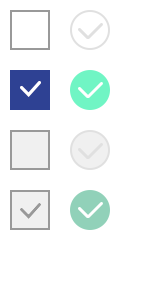
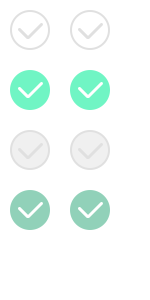
로긴1

diff --git a/src/main/webapp/resources2/app/css/common.css b/src/main/webapp/resources2/app/css/common.css
@@ -21,7 +21,7 @@ button{cursor:pointer;background: none;border: none;}
 .btn.type.b:not(.disabled):active{/* border-color:#0052bb; *//* background-color:#e5f2fd; */}
 .btn.type.c{border-color:#666666; background-color:#ffffff; color:#181818;}
 .btn.type.c:not(.disabled):active{/* border-color:#666666; background-color:#f5f5f5; */}
-.btn.type.d{border-color:#ee4e2e; background-color:#ee4e2e; color:#ffffff;}
+.btn.type.d{border-color: #66dfb2;background-color: #66dfb2;color:#ffffff;}
 .btn.type.d:not(.disabled):active{/* border-color:#9b331e; background-color:#9b331e; */}
 .btn.type.e{border-color:#646464; background-color:#646464; color:#ffffff;}
 .btn.type.e:not(.disabled):active{/* border-color:#646464; background-color:#646464; */}
@@ -41,7 +41,7 @@ textarea{ padding:9px 8px 9px 8px; height: 100px; border:#b3b3b3 solid 1px ;}
 textarea:focus{color: #70f5c4; border:#70f5c4 solid 1px ;}
 
 textarea:not([readonly]):not([disabled]):focus,
-input:not([type=radio]):not([type=radio]):not([readonly]):not([disabled]):focus{ border-bottom-color: #70f5c4; border-bottom-width: 2px; padding-bottom: 4px; color: #70f5c4;}
+input:not([type=radio]):not([type=radio]):not([readonly]):not([disabled]):focus{border-bottom-color: #70f5c4;border-bottom-width: 2px;padding-bottom: 4px;/* color: #70f5c4; */}
 
 select[disabled],
 textarea[disabled],textarea[readonly],
@@ -69,7 +69,7 @@ input.valid.no{background-position-y: -70px;/* border-bottom-color: #daa096 !imp
 
 .checkbox{position:relative;display:inline-block;vertical-align:middle;}
 .checkbox>input{position:absolute;left:0px;top:0px;padding:0px;z-index: 10;}
-.checkbox>span::before{width:30px;height: 30px;background: url(../images/common/form.png) no-repeat;display:inline-block;vertical-align:middle;background-size: 75px auto;margin-left: -4px;content:"";}
+.checkbox>span::before{width:30px;height: 30px;background: url(../images/common/form.png) no-repeat;display:inline-block;vertical-align: -10px;background-size: 75px auto;margin-left: -4px;content:"";}
 .checkbox>input:checked + span::before{background-position-y: -30px;}
 .checkbox>input:disabled + span::before{background-position-y: -60px;}
 .checkbox>input:checked:disabled + span::before{background-position-y: -90px;}
@@ -98,6 +98,16 @@ select::-ms-expand {display:none;}
 .uiSchIpt{ position:relative; display:inline-block; vertical-align:middle; width:100%; }
 .uiSchIpt input.ipt{width:100%;padding-right: 45px;}
 .uiSchIpt .sch{ width:40px; height:38px; font-size:0px; position:absolute; right:1px; top:1px; background:url(../images/common/icoFormSch.png) no-repeat; background-size:auto 38px; cursor:pointer; background-color:transparent; border:none; padding:0;}
+
+
+/* placeholder */
+.uiIptPlc{position:relative;padding-top: 20px;}
+.uiIptPlc .plc{position:absolute;top: 29px;font-size: 14px;transition: all 0.2s;color: #999;}
+.uiIptPlc .input{}
+.uiIptPlc .input:focus{}
+.uiIptPlc .input:focus + .plc{color: #70f5c4;top: 8px;font-size: 12px;}
+.uiIptPlc .input.on + .plc{ color: #70f5c4; top: 8px; font-size: 12px; }
+
 
 /* 수량 +- */
 .uiSpinner{}
@@ -138,7 +148,7 @@ select::-ms-expand {display:none;}
 .uiChk input[type=checkbox] {width:52px;height:26px;padding:0px; position:absolute; z-index:10;}
 .uiChk input + em::after{content:"OFF";position:absolute;left:27px;top:7px;font-size:11px;color:#ffffff;font-family:'Tahoma';}
 .uiChk input + em::before{position:absolute;left:2px;top:2px;width:22px;height:22px;background:#ffffff;border-radius:30px;transition:all 0.2s;content:"";}
-.uiChk input:checked + em{background:#0052bb;}
+.uiChk input:checked + em{background: #70f5c4;}
 .uiChk input:checked + em::after{content:"ON";left:6px;}
 .uiChk input:checked + em::before{left:28px;}
 .uiChk input:disabled + em{ opacity:0.5;}
@@ -174,7 +184,7 @@ select::-ms-expand {display:none;}
 /* 블릿 리스트 타입*/
 ul.bullet{ }
 ul.bullet>li .st{color:#e84e4e;}
-ul.bullet.type>li{  line-height:16px;  position:relative; margin-top:4px;}
+ul.bullet.type>li{/* line-height:16px; */position:relative;margin-top:4px;font-size: 12px;}
 ul.bullet.type>li:first-child{ margin-top:0px; }
 ul.bullet.type>li:before{ position:absolute; left:0px; top:0px;}
 
@@ -315,7 +325,7 @@ table.listA tbody tr:first-child td{ border-top-width:0; }
 .paging .link a{/* border-color:transparent; *//* line-height: 29px; */margin: 0 1px;}
 .paging .link a.active{font-weight:bold;color:#0052bb;/* text-decoration:underline; */}
 
-.msg_error{color:#ee4e2e;padding: 5px 10px; display:none;}
+.msg_error{padding: 5px 0px; display:none; font-size: 12px;}
 .msg_error.show{ display:block; }
 
 .uiListMore{ position: relative;}
@@ -330,7 +340,7 @@ table.listA tbody tr:first-child td{ border-top-width:0; }
 /* 플로팅 탑버튼 */
 .floatNav{position:fixed;right: 10px;bottom: 60px;z-index: 200;transition:all 0.4s;}
 .floatNav.active{}
-.floatNav .bt{font-size: 0px;width:32px;height:32px; display:block; background: no-repeat rgba(255, 255, 255, 0.7); border: solid #999999 1px;transform: translateY(100px);transition: all 0.4s; background-size: 100% auto; margin-top: 10px;}
+.floatNav .bt{font-size: 0px;width:32px;height:32px;display:block;background: no-repeat rgba(255, 255, 255, 0.7);border: solid #999999 1px;transform: translateY(200px);transition: all 0.4s;background-size: 100% auto;margin-top: 10px;}
 .floatNav .bt.refresh{background-image: url(../images/common/ico_load.png); transition-delay: 0.0s;}
 .floatNav .bt.top{background-image: url(../images/common/btn_top.png); transition-delay: 0.1s;}
 .floatNav.active .refresh{ transform: translateY(0px);}
@@ -470,10 +480,11 @@ table.listA tbody tr:first-child td{ border-top-width:0; }
 /* 팝업 레이어 */
 .popPage{ position:relative;left:0px;right:0px;top:0px;bottom:0;z-index:1000;background-color: rgba(0,0,0,0.52);outline:none;}
 .popPage>.pbd{background: #ffffff;position:relative;overflow: hidden;/* padding-top:50px; */min-width: 200px;}
+.popPage>.pbd .btnPopClose{position: fixed;right: 15px;top: 35px;width: 30px;height: 30px;text-indent:-9999px;overflow:hidden;background: url(../images/common/popLayerClose.png) no-repeat center;background-size: 20px auto;background-color:transparent;border:none;padding:0;cursor: pointer;z-index: 100;}
 .popPage>.pbd>.phd{height: 50px;position: relative;}
 .popPage>.pbd>.phd>.in{position:fixed;left:0px;right:0px;top:0px;z-index:10;height: 50px;background-color: #ffffff;box-sizing:border-box;border-bottom: #c7c7c7 solid 1px;display: flex;align-items: center;}
 .popPage>.pbd>.phd .tit{font-size: 20px;color:#000000;font-family:"CJ Medium";white-space:nowrap;overflow:hidden;text-overflow:ellipsis;padding-left: 15px;}
-.popPage>.pbd .btnPopClose{position: fixed;right: 15px;top: 35px;width: 30px;height: 30px;text-indent:-9999px;overflow:hidden;background: url(../images/common/popLayerClose.png) no-repeat center;background-size: 20px auto;background-color:transparent;border:none;padding:0;cursor: pointer;z-index: 100;}
+.popPage>.pbd>.phd .btnPopClose{ top: 10px;}
 .popPage>.pbd>.pct{position: relative;}
 .popPage>.pbd>.pbt{position:relative;min-height: 40px;z-index: 100;}
 .popPage>.pbd>.pbt>.in{position: fixed; bottom: 0px; width:100%; }

diff --git a/src/main/webapp/resources2/app/css/member.css b/src/main/webapp/resources2/app/css/member.css
@@ -3,7 +3,7 @@
 .popJoinPre{}
 .popJoinPre .poptents{}
 .popJoinPre .box{padding: 69px 16px 170px 16px;min-height: calc(100vh - 169px);text-align: center;}
-.popJoinPre .box .hdt{font-size: 24px;}
+.popJoinPre .box .hdt{font-size: 24px;color: #000000;}
 .popJoinPre .box .hdt em{ font-weight: bold;}
 .popJoinPre .box .bts{margin-top: 30px;}
 .popJoinPre .box .bts .btn{ width:100%; margin-top: 16px}
@@ -15,3 +15,24 @@
 .popJoinPre .joinSet .list>li.instar .bt{background-image:url(../images/common/ico_instargram.png);}
 .popJoinPre .joinSet .list>li.kakao .bt{background-image:url(../images/common/ico_kakaotalk.png);}
 .popJoinPre .joinSet .list>li.facebook .bt{background-image:url(../images/common/ico_facebook.png);}
+
+
+.popLogin{}
+.popLogin .poptents{}
+.popLogin .loginForm{padding: 69px 16px 20px 16px;}
+.popLogin .loginForm .hdt{font-size: 24px;text-align: center;color: #000000;}
+.popLogin .loginForm .hdt em{ font-weight: bold;}
+.popLogin .loginForm .form{
+    margin-top: -5px;
+}
+.popLogin .loginForm .form .uiIptPlc{}
+.popLogin .loginForm .form .uiIptPlc .plc{}
+.popLogin .loginForm .form .uiIptPlc .input{}
+.popLogin .loginForm .form .msg_error{margin-top: 4px;}
+.popLogin .loginForm .form .btns{margin-top: 12px;}
+.popLogin .loginForm .form .btns .btn{width:100%;}
+.popLogin .loginForm .info{display:flex; justify-content: space-between; font-size: 12px; align-items: center; margin-top: 10px;}
+.popLogin .loginForm .info .save{}
+.popLogin .loginForm .info .save label{}
+.popLogin .loginForm .info .txt{}
+.popLogin .loginForm .info .txt .link{display: block;padding: 4px 0;}

diff --git a/src/main/webapp/resources2/app/css/base.css b/src/main/webapp/resources2/app/css/base.css
@@ -149,7 +149,7 @@ input[type=number]{-moz-appearance:textfield;}
 
 
 
-.btnGuide{position:absolute;top:50%;left:50%;transform: translate3d(-50%, -50%, 0px);font-size: 13px;}
+.btnGuide{position:absolute;top: 10px;left: 10px;/* transform: translate3d(-50%, -50%, 0px); *//* font-size: 13px; */right: 10px;}
 .btnGuide button{border:#ccc solid 1px;border-radius:5px;padding: 5px 10px;}
 
 .tempLink {position:fixed;left:0px;right:0px;top:0px;bottom:0px;z-index:10000;background-color:rgba(0,0,0,0.6);letter-spacing:0;display:block;box-sizing:border-box;}
@@ -227,7 +227,7 @@ input[type=number]{-moz-appearance:textfield;}
 }
 @media screen and ( max-width:360px)  {
 }
-
+#debug{position:fixed;left: 4px;top: 0px;z-index: 1000000;}
 .contain.ui .device{ border:#ddd solid 1px; border-radius:4px; padding:10px; font-size:10px;}
 .contain.ui .device h3{ font-weight:bold; }
 .contain.ui .device #userAgent{ color:#7d51da; }

diff --git a/src/main/webapp/resources2/app/js/ui.js b/src/main/webapp/resources2/app/js/ui.js
@@ -190,6 +190,31 @@ var ui = {
 			this.chkall();
 			this.spinner.init();
 			this.star.init();
+			this.placeholder.init();
+		},
+		placeholder:{ // uiIptPlc
+			init:function(){
+				var _this =  this;
+				$(".uiIptPlc").find(">.plc").on("click",function(){
+					$(this).prev(".input").trigger("focus");
+				});
+				$(".uiIptPlc").find(">.input").on("focus blur",function(){
+					_this.using();
+				});
+
+				_this.using();
+			},
+			using:function(){
+				$(".uiIptPlc").find(">.input").each(function(){
+					var myEls = $(this);
+					var myVal = $(this).val();
+					if( myVal) {
+						myEls.addClass("on");
+					}else{
+						myEls.removeClass("on");
+					}
+				});
+			}
 		},
 		search:function(){
 			$(document).on("keyup",".uiSchIpt input",function (e) {
